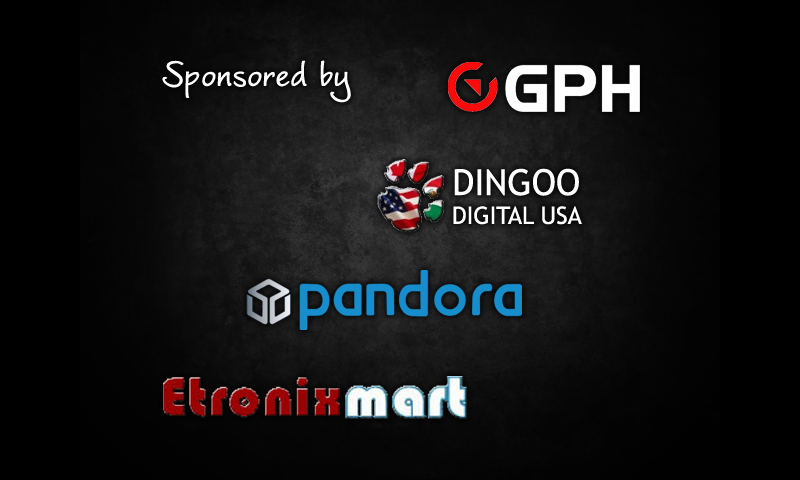
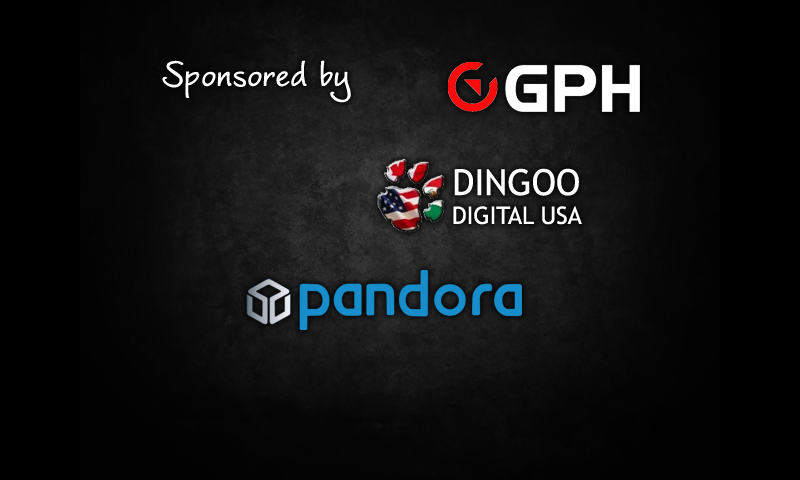
I killed Etronixmart from the supporters. Bastards...

Changed region(s): [[0.1875, 0.7812, 0.5938, 0.875]]

diff --git a/menu.c b/menu.c
@@ -317,7 +317,7 @@ void draw_menu(void)
       spFontDrawMiddle(engineWindowX/2+(menu_fade*spGetSizeFactor()>>SP_ACCURACY+2),5*engineWindowY/9+(spSin(menu_counter*300+2*SP_PI*2/7)>>SP_ACCURACY-2),-1,"Pandora",font);
       spFontDrawMiddle(engineWindowX/2+(menu_fade*spGetSizeFactor()>>SP_ACCURACY+2),6*engineWindowY/9+(spSin(menu_counter*300+1*SP_PI*2/7)>>SP_ACCURACY-2),-1,"GPH",font);
       spFontDrawMiddle(engineWindowX/2+(menu_fade*spGetSizeFactor()>>SP_ACCURACY+2),7*engineWindowY/9+(spSin(menu_counter*300+0*SP_PI*2/7)>>SP_ACCURACY-2),-1,"DINGOO DIGITAL USA",font);
-      spFontDrawMiddle(engineWindowX/2+(menu_fade*spGetSizeFactor()>>SP_ACCURACY+2),8*engineWindowY/9+(spSin(menu_counter*300+-1*SP_PI*2/7)>>SP_ACCURACY-2),-1,"Etronixmart",font);
+      //spFontDrawMiddle(engineWindowX/2+(menu_fade*spGetSizeFactor()>>SP_ACCURACY+2),8*engineWindowY/9+(spSin(menu_counter*300+-1*SP_PI*2/7)>>SP_ACCURACY-2),-1,"Etronixmart",font);
       break;
   }
   #ifdef MENU_DEBUG
